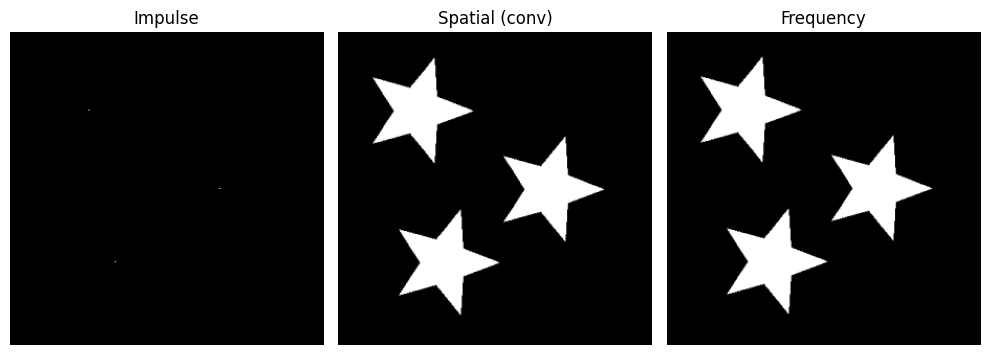
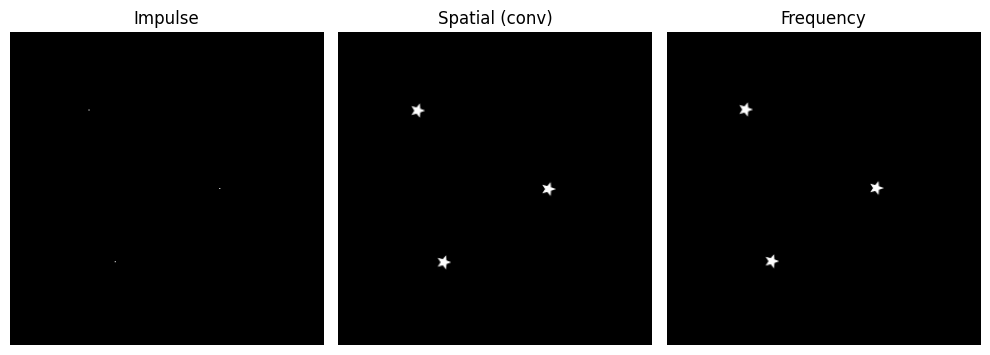
updates

diff --git a/COL783/A2/LOCAL/q2.py b/COL783/A2/LOCAL/q2.py
@@ -5,8 +5,8 @@ import matplotlib.pyplot as plt
 import time
 import math
 from typing import List
+import argparse 
 
-# ---------- Helpers ----------
 def ensure_dir(p: str):
     os.makedirs(p, exist_ok=True)
 
@@ -22,7 +22,6 @@ def save_rgb(path: str, arr: np.ndarray):
     a8 = (255.0 * a).astype(np.uint8)
     cv2.imwrite(path, cv2.cvtColor(a8, cv2.COLOR_RGB2BGR))
 
-# ---------- PSF and transforms ----------
 def make_star_psf(size: int = 200, num_spikes: int = 5, outer_r: int = 70, inner_r: int = 30) -> np.ndarray:
     canvas = np.zeros((size, size), dtype=np.uint8)
     cx, cy = size // 2, size // 2
@@ -57,7 +56,7 @@ def gamma_correction(img: np.ndarray, gamma: float) -> np.ndarray:
 def mirror_pad_2d(img: np.ndarray, pad_h: int, pad_w: int) -> np.ndarray:
     return np.pad(img, ((pad_h, pad_h), (pad_w, pad_w)), mode='reflect')
 
-# ---------- Spatial convolution (uses cv2.filter2D but flips kernel for convolution semantics) ----------
+# Spatial convolution using cv2.filter2D but fliping the kernel for convolution semantics
 def spatial_blur_channel(img: np.ndarray, psf: np.ndarray, borderType=cv2.BORDER_REFLECT) -> np.ndarray:
     psf_conv = np.flipud(np.fliplr(psf)).astype(np.float32)
     out = cv2.filter2D(img.astype(np.float32), -1, psf_conv, borderType=borderType)
@@ -76,7 +75,6 @@ def spatial_blur_color(img_rgb: np.ndarray, psf: np.ndarray, gamma: float = 2.2)
     out = np.clip(out, 0.0, 1.0)
     return out
 
-# ---------- Frequency domain convolution ----------
 def frequency_blur_channel(img: np.ndarray, psf: np.ndarray) -> np.ndarray:
     h, w = img.shape
     ph, pw = psf.shape
@@ -126,12 +124,6 @@ def frequency_blur_color(img_rgb: np.ndarray, psf: np.ndarray, gamma: float = 2.
         g_padded = np.fft.ifft2(G).real
         g = g_padded[pad_h:pad_h + img_chan.shape[0], pad_w:pad_w + img_chan.shape[1]]
 
-        def norm01(x):
-            x = np.array(x, dtype=np.float32)
-            x = x - x.min()
-            denom = x.max() if x.max() != 0 else 1.0
-            return x / denom
-
         plt.figure(figsize=(15, 8))
         plt.subplot(2, 4, 1); plt.imshow(img_chan, cmap='gray'); plt.title('f: Original (chan 0)'); plt.axis('off')
         plt.subplot(2, 4, 2); plt.imshow(np.log1p(np.abs(np.fft.fftshift(F))), cmap='gray'); plt.title('|F|'); plt.axis('off')
@@ -141,16 +133,21 @@ def frequency_blur_color(img_rgb: np.ndarray, psf: np.ndarray, gamma: float = 2.
         plt.subplot(2, 4, 6); plt.imshow(img_padded, cmap='gray'); plt.title('Padded Input'); plt.axis('off')
         plt.subplot(2, 4, 7); plt.imshow(H_pad, cmap='gray'); plt.title('Positioned PSF'); plt.axis('off')
         plt.tight_layout()
-        # save intermediate figure BEFORE showing
         ensure_dir('./Q2_Outputs/PartC')
         plt.savefig('./Q2_Outputs/PartC/frequency_intermediates.png', bbox_inches='tight')
         plt.show()
         plt.close()
-
     return out
 
-# ---------- Main: Parts A,B,C,D ----------
 if __name__ == '__main__':
+    parser = argparse.ArgumentParser(description='Q2')
+    parser.add_argument(
+        '--photo_path', 
+        type=str, 
+        default='../Testcases/Q2_SYNTH.png', # Use the original path as the default
+        help='Path to the real photograph image'
+    )
+    args = parser.parse_args()
     OUT_ROOT = './Q2_Outputs'
     PART_A = os.path.join(OUT_ROOT, 'PartA')
     PART_B = os.path.join(OUT_ROOT, 'PartB')
@@ -168,7 +165,6 @@ if __name__ == '__main__':
     sizes = [150, 80, 40, 20, 10]
     psfs = resize_and_normalize_psfs(base_star, sizes)
 
-    # save and display PSFs
     fig, axes = plt.subplots(1, len(psfs), figsize=(15, 3))
     for i, psf in enumerate(psfs):
         axes[i].imshow(psf, cmap='gray')
@@ -188,7 +184,7 @@ if __name__ == '__main__':
         impulse_img[y, x] = 1.0
     save_gray(os.path.join(PART_B, 'impulse_original.png'), impulse_img)
 
-    psf_small = psfs[3]
+    psf_small = psfs[0]
     spatial_impulse = spatial_blur_channel(impulse_img, psf_small)
     save_gray(os.path.join(PART_B, 'impulse_spatial_blur.png'), spatial_impulse)
 
@@ -201,29 +197,25 @@ if __name__ == '__main__':
     plt.close()
 
     # Real photograph
-    PHOTO_PATH = '../Testcases//new.jpg'  # change as needed
+    PHOTO_PATH = args.photo_path 
     photo = cv2.imread(PHOTO_PATH, cv2.IMREAD_COLOR)
-    if photo is None:
-        print('Photo not found at', PHOTO_PATH, ' — skipping Part B photo blur.')
-        photo = None
-    else:
-        photo = cv2.cvtColor(photo, cv2.COLOR_BGR2RGB).astype(np.float32) / 255.0
-        h0, w0 = photo.shape[:2]
-        if (h0 < 900) or (w0 < 1500):
-            # target 1000 x 2000 (height x width) but cv2.resize args are (width,height)
-            photo = cv2.resize(photo, (2000, 1000), interpolation=cv2.INTER_AREA)
-        save_rgb(os.path.join(PART_B, 'photo_original.png'), photo)
+    photo = cv2.cvtColor(photo, cv2.COLOR_BGR2RGB).astype(np.float32) / 255.0
+    h0, w0 = photo.shape[:2]
+    if (h0 < 900) or (w0 < 1500):
+        # target 1000 x 2000 (height x width) but recall cv2.resize args are (width,height)
+        photo = cv2.resize(photo, (2000, 1000), interpolation=cv2.INTER_AREA)
+    save_rgb(os.path.join(PART_B, 'photo_original.png'), photo)
 
-        spatial_photo = spatial_blur_color(photo, psf_small, gamma=2.2)
-        save_rgb(os.path.join(PART_B, 'photo_spatial_blur.png'), spatial_photo)
+    spatial_photo = spatial_blur_color(photo, psf_small, gamma=2.2)
+    save_rgb(os.path.join(PART_B, 'photo_spatial_blur.png'), spatial_photo)
 
-        plt.figure(figsize=(12, 6))
-        plt.subplot(1, 2, 1); plt.imshow(photo); plt.title('Original Photo'); plt.axis('off')
-        plt.subplot(1, 2, 2); plt.imshow(spatial_photo); plt.title('Spatial Blur'); plt.axis('off')
-        plt.tight_layout()
-        plt.savefig(os.path.join(PART_B, 'photo_spatial_vs_original.png'), bbox_inches='tight')
-        plt.show()
-        plt.close()
+    plt.figure(figsize=(12, 6))
+    plt.subplot(1, 2, 1); plt.imshow(photo); plt.title('Original Photo'); plt.axis('off')
+    plt.subplot(1, 2, 2); plt.imshow(spatial_photo); plt.title('Spatial Blur'); plt.axis('off')
+    plt.tight_layout()
+    plt.savefig(os.path.join(PART_B, 'photo_spatial_vs_original.png'), bbox_inches='tight')
+    plt.show()
+    plt.close()
 
     # --- Part C ---
     print('====Part-C Processing...=====')
@@ -239,29 +231,28 @@ if __name__ == '__main__':
     plt.show()
     plt.close()
 
-    if photo is not None:
-        freq_photo = frequency_blur_color(photo, psf_small, gamma=2.2, show_intermediate=True)
-        save_rgb(os.path.join(PART_C, 'photo_frequency_blur.png'), freq_photo)
+    freq_photo = frequency_blur_color(photo, psf_small, gamma=2.2, show_intermediate=True)
+    save_rgb(os.path.join(PART_C, 'photo_frequency_blur.png'), freq_photo)
 
-        plt.figure(figsize=(12, 6))
-        plt.subplot(1, 2, 1); plt.imshow(spatial_photo); plt.title('Spatial Domain Blur'); plt.axis('off')
-        plt.subplot(1, 2, 2); plt.imshow(freq_photo); plt.title('Frequency Domain Blur'); plt.axis('off')
-        plt.tight_layout()
-        plt.savefig(os.path.join(PART_C, 'photo_spatial_vs_frequency.png'), bbox_inches='tight')
-        plt.show()
-        plt.close()
+    plt.figure(figsize=(12, 6))
+    plt.subplot(1, 2, 1); plt.imshow(spatial_photo); plt.title('Spatial Domain Blur'); plt.axis('off')
+    plt.subplot(1, 2, 2); plt.imshow(freq_photo); plt.title('Frequency Domain Blur'); plt.axis('off')
+    plt.tight_layout()
+    plt.savefig(os.path.join(PART_C, 'photo_spatial_vs_frequency.png'), bbox_inches='tight')
+    plt.show()
+    plt.close()
 
-        # linear-domain diagnostic diff
-        img_lin = gamma_correction(photo, 1.0 / 2.2)
-        spatial_no_gamma = np.zeros_like(img_lin)
-        freq_no_gamma = np.zeros_like(img_lin)
-        for c in range(3):
-            spatial_no_gamma[..., c] = spatial_blur_channel(img_lin[..., c], psf_small)
-            freq_no_gamma[..., c] = frequency_blur_channel(img_lin[..., c], psf_small)
-        diff_no_gamma = np.abs(spatial_no_gamma - freq_no_gamma)
-        diff_max = np.max(diff_no_gamma, axis=2)
-        save_gray(os.path.join(PART_C, 'photo_linear_diff_max.png'), diff_max)
-        print('Photo (linear) - max abs diff:', diff_no_gamma.max(), 'mean:', diff_no_gamma.mean())
+    # just doing linear-domain diff for diagnostic purposes
+    img_lin = gamma_correction(photo, 1.0 / 2.2)
+    spatial_no_gamma = np.zeros_like(img_lin)
+    freq_no_gamma = np.zeros_like(img_lin)
+    for c in range(3):
+        spatial_no_gamma[..., c] = spatial_blur_channel(img_lin[..., c], psf_small)
+        freq_no_gamma[..., c] = frequency_blur_channel(img_lin[..., c], psf_small)
+    diff_no_gamma = np.abs(spatial_no_gamma - freq_no_gamma)
+    diff_max = np.max(diff_no_gamma, axis=2)
+    save_gray(os.path.join(PART_C, 'photo_linear_diff_max.png'), diff_max)
+    print('Photo (linear) - max abs diff:', diff_no_gamma.max(), 'mean:', diff_no_gamma.mean())
 
     # --- Part D: Timing ---
     print('====Part-D Processing...=====')
